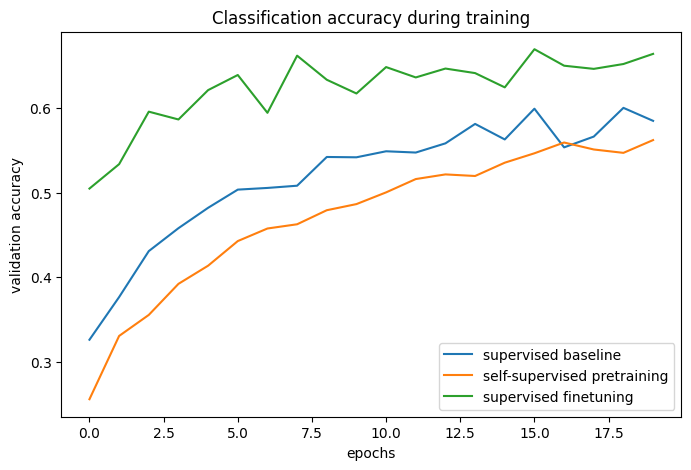
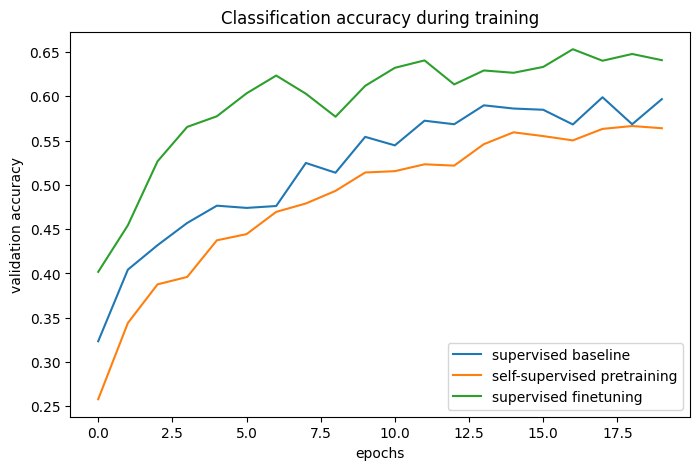
update

diff --git a/examples/vision/semisupervised_simclr.py b/examples/vision/semisupervised_simclr.py
@@ -66,6 +66,11 @@ check out
 ## Setup
 """
 
+import os
+
+os.environ["KERAS_BACKEND"] = "tensorflow"
+
+
 # Make sure we are able to handle large datasets
 import resource
 

diff --git a/examples/vision/md/semisupervised_simclr.md b/examples/vision/md/semisupervised_simclr.md
@@ -70,6 +70,11 @@ check out
 
 
 ```python
+import os
+
+os.environ["KERAS_BACKEND"] = "tensorflow"
+
+
 # Make sure we are able to handle large datasets
 import resource
 
@@ -340,46 +345,46 @@ print(
 <div class="k-default-codeblock">
 ```
 Epoch 1/20
- 200/200 ━━━━━━━━━━━━━━━━━━━━ 10s 25ms/step - acc: 0.1778 - loss: 2.1562 - val_acc: 0.3261 - val_loss: 1.7078
+ 200/200 ━━━━━━━━━━━━━━━━━━━━ 9s 25ms/step - acc: 0.2031 - loss: 2.1576 - val_acc: 0.3234 - val_loss: 1.7719
 Epoch 2/20
- 200/200 ━━━━━━━━━━━━━━━━━━━━ 3s 17ms/step - acc: 0.3583 - loss: 1.7477 - val_acc: 0.3766 - val_loss: 1.6743
+ 200/200 ━━━━━━━━━━━━━━━━━━━━ 4s 17ms/step - acc: 0.3476 - loss: 1.7792 - val_acc: 0.4042 - val_loss: 1.5626
 Epoch 3/20
- 200/200 ━━━━━━━━━━━━━━━━━━━━ 4s 21ms/step - acc: 0.4091 - loss: 1.6017 - val_acc: 0.4310 - val_loss: 1.4954
+ 200/200 ━━━━━━━━━━━━━━━━━━━━ 4s 17ms/step - acc: 0.4060 - loss: 1.6054 - val_acc: 0.4319 - val_loss: 1.4832
 Epoch 4/20
- 200/200 ━━━━━━━━━━━━━━━━━━━━ 5s 23ms/step - acc: 0.4364 - loss: 1.5322 - val_acc: 0.4581 - val_loss: 1.4656
+ 200/200 ━━━━━━━━━━━━━━━━━━━━ 4s 18ms/step - acc: 0.4347 - loss: 1.5052 - val_acc: 0.4570 - val_loss: 1.4428
 Epoch 5/20
- 200/200 ━━━━━━━━━━━━━━━━━━━━ 5s 23ms/step - acc: 0.4638 - loss: 1.4673 - val_acc: 0.4823 - val_loss: 1.3855
+ 200/200 ━━━━━━━━━━━━━━━━━━━━ 4s 18ms/step - acc: 0.4600 - loss: 1.4546 - val_acc: 0.4765 - val_loss: 1.3977
 Epoch 6/20
- 200/200 ━━━━━━━━━━━━━━━━━━━━ 4s 20ms/step - acc: 0.4935 - loss: 1.3822 - val_acc: 0.5038 - val_loss: 1.3473
+ 200/200 ━━━━━━━━━━━━━━━━━━━━ 4s 17ms/step - acc: 0.4754 - loss: 1.4015 - val_acc: 0.4740 - val_loss: 1.4082
 Epoch 7/20
- 200/200 ━━━━━━━━━━━━━━━━━━━━ 4s 17ms/step - acc: 0.4990 - loss: 1.3574 - val_acc: 0.5058 - val_loss: 1.3641
+ 200/200 ━━━━━━━━━━━━━━━━━━━━ 4s 17ms/step - acc: 0.4901 - loss: 1.3589 - val_acc: 0.4761 - val_loss: 1.4061
 Epoch 8/20
- 200/200 ━━━━━━━━━━━━━━━━━━━━ 4s 17ms/step - acc: 0.5306 - loss: 1.2743 - val_acc: 0.5084 - val_loss: 1.3376
+ 200/200 ━━━━━━━━━━━━━━━━━━━━ 4s 17ms/step - acc: 0.5110 - loss: 1.2793 - val_acc: 0.5247 - val_loss: 1.3026
 Epoch 9/20
- 200/200 ━━━━━━━━━━━━━━━━━━━━ 4s 17ms/step - acc: 0.5264 - loss: 1.2738 - val_acc: 0.5424 - val_loss: 1.2659
+ 200/200 ━━━━━━━━━━━━━━━━━━━━ 4s 17ms/step - acc: 0.5298 - loss: 1.2765 - val_acc: 0.5138 - val_loss: 1.3286
 Epoch 10/20
- 200/200 ━━━━━━━━━━━━━━━━━━━━ 4s 17ms/step - acc: 0.5751 - loss: 1.1989 - val_acc: 0.5420 - val_loss: 1.2480
+ 200/200 ━━━━━━━━━━━━━━━━━━━━ 4s 17ms/step - acc: 0.5514 - loss: 1.2078 - val_acc: 0.5543 - val_loss: 1.2227
 Epoch 11/20
- 200/200 ━━━━━━━━━━━━━━━━━━━━ 4s 17ms/step - acc: 0.5916 - loss: 1.1188 - val_acc: 0.5491 - val_loss: 1.2327
+ 200/200 ━━━━━━━━━━━━━━━━━━━━ 4s 17ms/step - acc: 0.5520 - loss: 1.1851 - val_acc: 0.5446 - val_loss: 1.2709
 Epoch 12/20
- 200/200 ━━━━━━━━━━━━━━━━━━━━ 4s 17ms/step - acc: 0.5871 - loss: 1.1249 - val_acc: 0.5476 - val_loss: 1.2465
+ 200/200 ━━━━━━━━━━━━━━━━━━━━ 4s 17ms/step - acc: 0.5851 - loss: 1.1368 - val_acc: 0.5725 - val_loss: 1.1944
 Epoch 13/20
- 200/200 ━━━━━━━━━━━━━━━━━━━━ 4s 17ms/step - acc: 0.6107 - loss: 1.0726 - val_acc: 0.5585 - val_loss: 1.2463
+ 200/200 ━━━━━━━━━━━━━━━━━━━━ 4s 18ms/step - acc: 0.5738 - loss: 1.1411 - val_acc: 0.5685 - val_loss: 1.1974
 Epoch 14/20
- 200/200 ━━━━━━━━━━━━━━━━━━━━ 5s 17ms/step - acc: 0.6059 - loss: 1.0698 - val_acc: 0.5815 - val_loss: 1.1859
+ 200/200 ━━━━━━━━━━━━━━━━━━━━ 4s 21ms/step - acc: 0.6078 - loss: 1.0308 - val_acc: 0.5899 - val_loss: 1.1769
 Epoch 15/20
- 200/200 ━━━━━━━━━━━━━━━━━━━━ 4s 21ms/step - acc: 0.6343 - loss: 1.0125 - val_acc: 0.5631 - val_loss: 1.2560
+ 200/200 ━━━━━━━━━━━━━━━━━━━━ 4s 18ms/step - acc: 0.6284 - loss: 1.0386 - val_acc: 0.5863 - val_loss: 1.1742
 Epoch 16/20
- 200/200 ━━━━━━━━━━━━━━━━━━━━ 4s 17ms/step - acc: 0.6372 - loss: 1.0090 - val_acc: 0.5995 - val_loss: 1.1302
+ 200/200 ━━━━━━━━━━━━━━━━━━━━ 4s 18ms/step - acc: 0.6450 - loss: 0.9773 - val_acc: 0.5849 - val_loss: 1.1993
 Epoch 17/20
- 200/200 ━━━━━━━━━━━━━━━━━━━━ 3s 17ms/step - acc: 0.6531 - loss: 0.9594 - val_acc: 0.5537 - val_loss: 1.2937
+ 200/200 ━━━━━━━━━━━━━━━━━━━━ 4s 17ms/step - acc: 0.6547 - loss: 0.9555 - val_acc: 0.5683 - val_loss: 1.2424
 Epoch 18/20
- 200/200 ━━━━━━━━━━━━━━━━━━━━ 4s 17ms/step - acc: 0.6706 - loss: 0.9130 - val_acc: 0.5665 - val_loss: 1.2670
+ 200/200 ━━━━━━━━━━━━━━━━━━━━ 4s 17ms/step - acc: 0.6593 - loss: 0.9084 - val_acc: 0.5990 - val_loss: 1.1458
 Epoch 19/20
- 200/200 ━━━━━━━━━━━━━━━━━━━━ 3s 17ms/step - acc: 0.6729 - loss: 0.8945 - val_acc: 0.6005 - val_loss: 1.1418
+ 200/200 ━━━━━━━━━━━━━━━━━━━━ 4s 17ms/step - acc: 0.6672 - loss: 0.9267 - val_acc: 0.5685 - val_loss: 1.2758
 Epoch 20/20
- 200/200 ━━━━━━━━━━━━━━━━━━━━ 4s 17ms/step - acc: 0.7075 - loss: 0.8153 - val_acc: 0.5851 - val_loss: 1.2535
-Maximal validation accuracy: 60.05%
+ 200/200 ━━━━━━━━━━━━━━━━━━━━ 4s 17ms/step - acc: 0.6824 - loss: 0.8863 - val_acc: 0.5969 - val_loss: 1.2035
+Maximal validation accuracy: 59.90%
 
 ```
 </div>
@@ -713,46 +718,46 @@ print(
 <div class="k-default-codeblock">
 ```
 Epoch 1/20
- 200/200 ━━━━━━━━━━━━━━━━━━━━ 38s 155ms/step - c_acc: 0.0802 - c_loss: 5.3667 - p_acc: 0.1345 - p_loss: 2.2911 - val_c_acc: 0.0000e+00 - val_c_loss: 0.0000e+00 - val_p_acc: 0.2558 - val_p_loss: 2.0893
+ 200/200 ━━━━━━━━━━━━━━━━━━━━ 34s 134ms/step - c_acc: 0.0880 - c_loss: 5.2606 - p_acc: 0.1326 - p_loss: 2.2726 - val_c_acc: 0.0000e+00 - val_c_loss: 0.0000e+00 - val_p_acc: 0.2579 - val_p_loss: 2.0671
 Epoch 2/20
- 200/200 ━━━━━━━━━━━━━━━━━━━━ 29s 140ms/step - c_acc: 0.2791 - c_loss: 3.6200 - p_acc: 0.2840 - p_loss: 2.0615 - val_c_acc: 0.0000e+00 - val_c_loss: 0.0000e+00 - val_p_acc: 0.3306 - val_p_loss: 1.9327
+ 200/200 ━━━━━━━━━━━━━━━━━━━━ 29s 139ms/step - c_acc: 0.2808 - c_loss: 3.6233 - p_acc: 0.2956 - p_loss: 2.0228 - val_c_acc: 0.0000e+00 - val_c_loss: 0.0000e+00 - val_p_acc: 0.3440 - val_p_loss: 1.9242
 Epoch 3/20
- 200/200 ━━━━━━━━━━━━━━━━━━━━ 28s 133ms/step - c_acc: 0.4089 - c_loss: 2.9509 - p_acc: 0.3513 - p_loss: 1.9077 - val_c_acc: 0.0000e+00 - val_c_loss: 0.0000e+00 - val_p_acc: 0.3555 - val_p_loss: 1.8655
+ 200/200 ━━━━━━━━━━━━━━━━━━━━ 28s 136ms/step - c_acc: 0.4097 - c_loss: 2.9369 - p_acc: 0.3671 - p_loss: 1.8674 - val_c_acc: 0.0000e+00 - val_c_loss: 0.0000e+00 - val_p_acc: 0.3876 - val_p_loss: 1.7757
 Epoch 4/20
- 200/200 ━━━━━━━━━━━━━━━━━━━━ 29s 139ms/step - c_acc: 0.4904 - c_loss: 2.5740 - p_acc: 0.3814 - p_loss: 1.8211 - val_c_acc: 0.0000e+00 - val_c_loss: 0.0000e+00 - val_p_acc: 0.3923 - val_p_loss: 1.7856
+ 200/200 ━━━━━━━━━━━━━━━━━━━━ 30s 142ms/step - c_acc: 0.4893 - c_loss: 2.5707 - p_acc: 0.3957 - p_loss: 1.7490 - val_c_acc: 0.0000e+00 - val_c_loss: 0.0000e+00 - val_p_acc: 0.3960 - val_p_loss: 1.7002
 Epoch 5/20
- 200/200 ━━━━━━━━━━━━━━━━━━━━ 29s 138ms/step - c_acc: 0.5518 - c_loss: 2.3005 - p_acc: 0.4176 - p_loss: 1.7342 - val_c_acc: 0.0000e+00 - val_c_loss: 0.0000e+00 - val_p_acc: 0.4137 - val_p_loss: 1.7032
+ 200/200 ━━━━━━━━━━━━━━━━━━━━ 28s 136ms/step - c_acc: 0.5458 - c_loss: 2.3342 - p_acc: 0.4274 - p_loss: 1.6608 - val_c_acc: 0.0000e+00 - val_c_loss: 0.0000e+00 - val_p_acc: 0.4374 - val_p_loss: 1.6145
 Epoch 6/20
- 200/200 ━━━━━━━━━━━━━━━━━━━━ 30s 143ms/step - c_acc: 0.5976 - c_loss: 2.1122 - p_acc: 0.4435 - p_loss: 1.6528 - val_c_acc: 0.0000e+00 - val_c_loss: 0.0000e+00 - val_p_acc: 0.4429 - val_p_loss: 1.5914
+ 200/200 ━━━━━━━━━━━━━━━━━━━━ 29s 140ms/step - c_acc: 0.5949 - c_loss: 2.1179 - p_acc: 0.4410 - p_loss: 1.5812 - val_c_acc: 0.0000e+00 - val_c_loss: 0.0000e+00 - val_p_acc: 0.4444 - val_p_loss: 1.5439
 Epoch 7/20
- 200/200 ━━━━━━━━━━━━━━━━━━━━ 29s 137ms/step - c_acc: 0.6240 - c_loss: 1.9754 - p_acc: 0.4536 - p_loss: 1.5819 - val_c_acc: 0.0000e+00 - val_c_loss: 0.0000e+00 - val_p_acc: 0.4577 - val_p_loss: 1.5743
+ 200/200 ━━━━━━━━━━━━━━━━━━━━ 28s 135ms/step - c_acc: 0.6273 - c_loss: 1.9861 - p_acc: 0.4633 - p_loss: 1.5076 - val_c_acc: 0.0000e+00 - val_c_loss: 0.0000e+00 - val_p_acc: 0.4695 - val_p_loss: 1.5056
 Epoch 8/20
- 200/200 ━━━━━━━━━━━━━━━━━━━━ 30s 142ms/step - c_acc: 0.6554 - c_loss: 1.8617 - p_acc: 0.4677 - p_loss: 1.5166 - val_c_acc: 0.0000e+00 - val_c_loss: 0.0000e+00 - val_p_acc: 0.4627 - val_p_loss: 1.5031
+ 200/200 ━━━━━━━━━━━━━━━━━━━━ 29s 139ms/step - c_acc: 0.6566 - c_loss: 1.8668 - p_acc: 0.4817 - p_loss: 1.4601 - val_c_acc: 0.0000e+00 - val_c_loss: 0.0000e+00 - val_p_acc: 0.4790 - val_p_loss: 1.4566
 Epoch 9/20
- 200/200 ━━━━━━━━━━━━━━━━━━━━ 28s 135ms/step - c_acc: 0.6728 - c_loss: 1.7889 - p_acc: 0.4757 - p_loss: 1.4715 - val_c_acc: 0.0000e+00 - val_c_loss: 0.0000e+00 - val_p_acc: 0.4794 - val_p_loss: 1.4673
+ 200/200 ━━━━━━━━━━━━━━━━━━━━ 28s 135ms/step - c_acc: 0.6726 - c_loss: 1.7938 - p_acc: 0.4885 - p_loss: 1.4136 - val_c_acc: 0.0000e+00 - val_c_loss: 0.0000e+00 - val_p_acc: 0.4933 - val_p_loss: 1.4163
 Epoch 10/20
- 200/200 ━━━━━━━━━━━━━━━━━━━━ 29s 139ms/step - c_acc: 0.6921 - c_loss: 1.6983 - p_acc: 0.5013 - p_loss: 1.4168 - val_c_acc: 0.0000e+00 - val_c_loss: 0.0000e+00 - val_p_acc: 0.4866 - val_p_loss: 1.4412
+ 200/200 ━━━━━━━━━━━━━━━━━━━━ 29s 139ms/step - c_acc: 0.6931 - c_loss: 1.7210 - p_acc: 0.4954 - p_loss: 1.3663 - val_c_acc: 0.0000e+00 - val_c_loss: 0.0000e+00 - val_p_acc: 0.5140 - val_p_loss: 1.3677
 Epoch 11/20
- 200/200 ━━━━━━━━━━━━━━━━━━━━ 28s 135ms/step - c_acc: 0.7030 - c_loss: 1.6700 - p_acc: 0.5041 - p_loss: 1.3928 - val_c_acc: 0.0000e+00 - val_c_loss: 0.0000e+00 - val_p_acc: 0.5005 - val_p_loss: 1.4026
+ 200/200 ━━━━━━━━━━━━━━━━━━━━ 29s 137ms/step - c_acc: 0.7055 - c_loss: 1.6619 - p_acc: 0.5210 - p_loss: 1.3376 - val_c_acc: 0.0000e+00 - val_c_loss: 0.0000e+00 - val_p_acc: 0.5155 - val_p_loss: 1.3573
 Epoch 12/20
- 200/200 ━━━━━━━━━━━━━━━━━━━━ 29s 138ms/step - c_acc: 0.7146 - c_loss: 1.6161 - p_acc: 0.5158 - p_loss: 1.3465 - val_c_acc: 0.0000e+00 - val_c_loss: 0.0000e+00 - val_p_acc: 0.5163 - val_p_loss: 1.4030
+ 200/200 ━━━━━━━━━━━━━━━━━━━━ 30s 145ms/step - c_acc: 0.7215 - c_loss: 1.6112 - p_acc: 0.5264 - p_loss: 1.2920 - val_c_acc: 0.0000e+00 - val_c_loss: 0.0000e+00 - val_p_acc: 0.5232 - val_p_loss: 1.3337
 Epoch 13/20
- 200/200 ━━━━━━━━━━━━━━━━━━━━ 28s 134ms/step - c_acc: 0.7264 - c_loss: 1.5713 - p_acc: 0.5305 - p_loss: 1.3124 - val_c_acc: 0.0000e+00 - val_c_loss: 0.0000e+00 - val_p_acc: 0.5217 - val_p_loss: 1.3409
+ 200/200 ━━━━━━━━━━━━━━━━━━━━ 31s 146ms/step - c_acc: 0.7279 - c_loss: 1.5749 - p_acc: 0.5388 - p_loss: 1.2570 - val_c_acc: 0.0000e+00 - val_c_loss: 0.0000e+00 - val_p_acc: 0.5217 - val_p_loss: 1.3155
 Epoch 14/20
- 200/200 ━━━━━━━━━━━━━━━━━━━━ 29s 137ms/step - c_acc: 0.7408 - c_loss: 1.5277 - p_acc: 0.5355 - p_loss: 1.2922 - val_c_acc: 0.0000e+00 - val_c_loss: 0.0000e+00 - val_p_acc: 0.5199 - val_p_loss: 1.3359
+ 200/200 ━━━━━━━━━━━━━━━━━━━━ 29s 140ms/step - c_acc: 0.7435 - c_loss: 1.5196 - p_acc: 0.5505 - p_loss: 1.2507 - val_c_acc: 0.0000e+00 - val_c_loss: 0.0000e+00 - val_p_acc: 0.5460 - val_p_loss: 1.2640
 Epoch 15/20
- 200/200 ━━━━━━━━━━━━━━━━━━━━ 28s 133ms/step - c_acc: 0.7441 - c_loss: 1.5061 - p_acc: 0.5518 - p_loss: 1.2834 - val_c_acc: 0.0000e+00 - val_c_loss: 0.0000e+00 - val_p_acc: 0.5356 - val_p_loss: 1.3070
+ 200/200 ━━━━━━━━━━━━━━━━━━━━ 40s 135ms/step - c_acc: 0.7477 - c_loss: 1.4979 - p_acc: 0.5653 - p_loss: 1.2188 - val_c_acc: 0.0000e+00 - val_c_loss: 0.0000e+00 - val_p_acc: 0.5594 - val_p_loss: 1.2351
 Epoch 16/20
- 200/200 ━━━━━━━━━━━━━━━━━━━━ 29s 141ms/step - c_acc: 0.7529 - c_loss: 1.4672 - p_acc: 0.5573 - p_loss: 1.2535 - val_c_acc: 0.0000e+00 - val_c_loss: 0.0000e+00 - val_p_acc: 0.5468 - val_p_loss: 1.2732
+ 200/200 ━━━━━━━━━━━━━━━━━━━━ 29s 139ms/step - c_acc: 0.7598 - c_loss: 1.4463 - p_acc: 0.5590 - p_loss: 1.1917 - val_c_acc: 0.0000e+00 - val_c_loss: 0.0000e+00 - val_p_acc: 0.5551 - val_p_loss: 1.2411
 Epoch 17/20
- 200/200 ━━━━━━━━━━━━━━━━━━━━ 29s 137ms/step - c_acc: 0.7585 - c_loss: 1.4425 - p_acc: 0.5573 - p_loss: 1.2250 - val_c_acc: 0.0000e+00 - val_c_loss: 0.0000e+00 - val_p_acc: 0.5595 - val_p_loss: 1.2567
+ 200/200 ━━━━━━━━━━━━━━━━━━━━ 28s 135ms/step - c_acc: 0.7633 - c_loss: 1.4271 - p_acc: 0.5775 - p_loss: 1.1731 - val_c_acc: 0.0000e+00 - val_c_loss: 0.0000e+00 - val_p_acc: 0.5502 - val_p_loss: 1.2428
 Epoch 18/20
- 200/200 ━━━━━━━━━━━━━━━━━━━━ 29s 141ms/step - c_acc: 0.7675 - c_loss: 1.4162 - p_acc: 0.5555 - p_loss: 1.2213 - val_c_acc: 0.0000e+00 - val_c_loss: 0.0000e+00 - val_p_acc: 0.5512 - val_p_loss: 1.2580
+ 200/200 ━━━━━━━━━━━━━━━━━━━━ 29s 140ms/step - c_acc: 0.7666 - c_loss: 1.4246 - p_acc: 0.5752 - p_loss: 1.1805 - val_c_acc: 0.0000e+00 - val_c_loss: 0.0000e+00 - val_p_acc: 0.5633 - val_p_loss: 1.2167
 Epoch 19/20
- 200/200 ━━━━━━━━━━━━━━━━━━━━ 32s 155ms/step - c_acc: 0.7733 - c_loss: 1.3948 - p_acc: 0.5696 - p_loss: 1.1949 - val_c_acc: 0.0000e+00 - val_c_loss: 0.0000e+00 - val_p_acc: 0.5472 - val_p_loss: 1.2501
+ 200/200 ━━━━━━━━━━━━━━━━━━━━ 28s 135ms/step - c_acc: 0.7708 - c_loss: 1.3928 - p_acc: 0.5814 - p_loss: 1.1677 - val_c_acc: 0.0000e+00 - val_c_loss: 0.0000e+00 - val_p_acc: 0.5665 - val_p_loss: 1.2191
 Epoch 20/20
- 200/200 ━━━━━━━━━━━━━━━━━━━━ 29s 140ms/step - c_acc: 0.7734 - c_loss: 1.3929 - p_acc: 0.5773 - p_loss: 1.1759 - val_c_acc: 0.0000e+00 - val_c_loss: 0.0000e+00 - val_p_acc: 0.5624 - val_p_loss: 1.2406
-Maximal validation accuracy: 56.24%
+ 200/200 ━━━━━━━━━━━━━━━━━━━━ 29s 140ms/step - c_acc: 0.7806 - c_loss: 1.3733 - p_acc: 0.5836 - p_loss: 1.1442 - val_c_acc: 0.0000e+00 - val_c_loss: 0.0000e+00 - val_p_acc: 0.5640 - val_p_loss: 1.2172
+Maximal validation accuracy: 56.65%
 
 ```
 </div>
@@ -792,46 +797,46 @@ print(
 <div class="k-default-codeblock">
 ```
 Epoch 1/20
- 200/200 ━━━━━━━━━━━━━━━━━━━━ 5s 18ms/step - acc: 0.2790 - loss: 1.9564 - val_acc: 0.5050 - val_loss: 1.3547
+ 200/200 ━━━━━━━━━━━━━━━━━━━━ 5s 18ms/step - acc: 0.2104 - loss: 2.0930 - val_acc: 0.4017 - val_loss: 1.5433
 Epoch 2/20
- 200/200 ━━━━━━━━━━━━━━━━━━━━ 3s 17ms/step - acc: 0.4842 - loss: 1.3999 - val_acc: 0.5339 - val_loss: 1.2820
+ 200/200 ━━━━━━━━━━━━━━━━━━━━ 4s 17ms/step - acc: 0.4037 - loss: 1.5791 - val_acc: 0.4544 - val_loss: 1.4250
 Epoch 3/20
- 200/200 ━━━━━━━━━━━━━━━━━━━━ 3s 17ms/step - acc: 0.5529 - loss: 1.2314 - val_acc: 0.5960 - val_loss: 1.1354
+ 200/200 ━━━━━━━━━━━━━━━━━━━━ 4s 17ms/step - acc: 0.4639 - loss: 1.4161 - val_acc: 0.5266 - val_loss: 1.2958
 Epoch 4/20
- 200/200 ━━━━━━━━━━━━━━━━━━━━ 3s 17ms/step - acc: 0.5883 - loss: 1.1250 - val_acc: 0.5867 - val_loss: 1.1316
+ 200/200 ━━━━━━━━━━━━━━━━━━━━ 4s 17ms/step - acc: 0.5438 - loss: 1.2686 - val_acc: 0.5655 - val_loss: 1.1711
 Epoch 5/20
- 200/200 ━━━━━━━━━━━━━━━━━━━━ 3s 17ms/step - acc: 0.6199 - loss: 1.0635 - val_acc: 0.6215 - val_loss: 1.0669
+ 200/200 ━━━━━━━━━━━━━━━━━━━━ 4s 17ms/step - acc: 0.5678 - loss: 1.1746 - val_acc: 0.5775 - val_loss: 1.1670
 Epoch 6/20
- 200/200 ━━━━━━━━━━━━━━━━━━━━ 3s 17ms/step - acc: 0.6280 - loss: 1.0143 - val_acc: 0.6394 - val_loss: 1.0138
+ 200/200 ━━━━━━━━━━━━━━━━━━━━ 4s 17ms/step - acc: 0.6096 - loss: 1.1071 - val_acc: 0.6034 - val_loss: 1.1400
 Epoch 7/20
- 200/200 ━━━━━━━━━━━━━━━━━━━━ 5s 17ms/step - acc: 0.6637 - loss: 0.9512 - val_acc: 0.5946 - val_loss: 1.1341
+ 200/200 ━━━━━━━━━━━━━━━━━━━━ 4s 17ms/step - acc: 0.6242 - loss: 1.0413 - val_acc: 0.6235 - val_loss: 1.0756
 Epoch 8/20
- 200/200 ━━━━━━━━━━━━━━━━━━━━ 3s 17ms/step - acc: 0.6639 - loss: 0.9366 - val_acc: 0.6622 - val_loss: 0.9710
+ 200/200 ━━━━━━━━━━━━━━━━━━━━ 4s 17ms/step - acc: 0.6284 - loss: 1.0264 - val_acc: 0.6030 - val_loss: 1.1048
 Epoch 9/20
- 200/200 ━━━━━━━━━━━━━━━━━━━━ 4s 17ms/step - acc: 0.7018 - loss: 0.8469 - val_acc: 0.6338 - val_loss: 1.0568
+ 200/200 ━━━━━━━━━━━━━━━━━━━━ 4s 17ms/step - acc: 0.6491 - loss: 0.9706 - val_acc: 0.5770 - val_loss: 1.2818
 Epoch 10/20
- 200/200 ━━━━━━━━━━━━━━━━━━━━ 3s 17ms/step - acc: 0.7054 - loss: 0.8137 - val_acc: 0.6175 - val_loss: 1.1042
+ 200/200 ━━━━━━━━━━━━━━━━━━━━ 4s 17ms/step - acc: 0.6754 - loss: 0.9104 - val_acc: 0.6119 - val_loss: 1.1087
 Epoch 11/20
- 200/200 ━━━━━━━━━━━━━━━━━━━━ 4s 17ms/step - acc: 0.7084 - loss: 0.8063 - val_acc: 0.6488 - val_loss: 1.0032
+ 200/200 ━━━━━━━━━━━━━━━━━━━━ 4s 20ms/step - acc: 0.6620 - loss: 0.8855 - val_acc: 0.6323 - val_loss: 1.0526
 Epoch 12/20
- 200/200 ━━━━━━━━━━━━━━━━━━━━ 4s 17ms/step - acc: 0.7254 - loss: 0.7712 - val_acc: 0.6365 - val_loss: 1.0920
+ 200/200 ━━━━━━━━━━━━━━━━━━━━ 4s 19ms/step - acc: 0.7060 - loss: 0.8179 - val_acc: 0.6406 - val_loss: 1.0565
 Epoch 13/20
- 200/200 ━━━━━━━━━━━━━━━━━━━━ 3s 17ms/step - acc: 0.7387 - loss: 0.7199 - val_acc: 0.6470 - val_loss: 1.0372
+ 200/200 ━━━━━━━━━━━━━━━━━━━━ 3s 17ms/step - acc: 0.7252 - loss: 0.7796 - val_acc: 0.6135 - val_loss: 1.1273
 Epoch 14/20
- 200/200 ━━━━━━━━━━━━━━━━━━━━ 4s 21ms/step - acc: 0.7498 - loss: 0.7110 - val_acc: 0.6416 - val_loss: 1.0901
+ 200/200 ━━━━━━━━━━━━━━━━━━━━ 4s 17ms/step - acc: 0.7176 - loss: 0.7935 - val_acc: 0.6292 - val_loss: 1.1028
 Epoch 15/20
- 200/200 ━━━━━━━━━━━━━━━━━━━━ 4s 17ms/step - acc: 0.7723 - loss: 0.6438 - val_acc: 0.6248 - val_loss: 1.1611
+ 200/200 ━━━━━━━━━━━━━━━━━━━━ 4s 17ms/step - acc: 0.7322 - loss: 0.7471 - val_acc: 0.6266 - val_loss: 1.1313
 Epoch 16/20
- 200/200 ━━━━━━━━━━━━━━━━━━━━ 3s 17ms/step - acc: 0.7661 - loss: 0.6650 - val_acc: 0.6699 - val_loss: 1.0066
+ 200/200 ━━━━━━━━━━━━━━━━━━━━ 4s 17ms/step - acc: 0.7400 - loss: 0.7218 - val_acc: 0.6332 - val_loss: 1.1064
 Epoch 17/20
- 200/200 ━━━━━━━━━━━━━━━━━━━━ 3s 17ms/step - acc: 0.7778 - loss: 0.6322 - val_acc: 0.6504 - val_loss: 1.0976
+ 200/200 ━━━━━━━━━━━━━━━━━━━━ 4s 17ms/step - acc: 0.7490 - loss: 0.6968 - val_acc: 0.6532 - val_loss: 1.0112
 Epoch 18/20
- 200/200 ━━━━━━━━━━━━━━━━━━━━ 3s 17ms/step - acc: 0.7844 - loss: 0.5973 - val_acc: 0.6466 - val_loss: 1.0941
+ 200/200 ━━━━━━━━━━━━━━━━━━━━ 4s 17ms/step - acc: 0.7491 - loss: 0.6879 - val_acc: 0.6403 - val_loss: 1.1083
 Epoch 19/20
- 200/200 ━━━━━━━━━━━━━━━━━━━━ 3s 17ms/step - acc: 0.7948 - loss: 0.5746 - val_acc: 0.6524 - val_loss: 1.1429
+ 200/200 ━━━━━━━━━━━━━━━━━━━━ 4s 17ms/step - acc: 0.7802 - loss: 0.6504 - val_acc: 0.6479 - val_loss: 1.0548
 Epoch 20/20
- 200/200 ━━━━━━━━━━━━━━━━━━━━ 3s 17ms/step - acc: 0.7984 - loss: 0.5519 - val_acc: 0.6644 - val_loss: 1.1057
-Maximal validation accuracy: 66.99%
+ 200/200 ━━━━━━━━━━━━━━━━━━━━ 3s 17ms/step - acc: 0.7800 - loss: 0.6234 - val_acc: 0.6409 - val_loss: 1.0998
+Maximal validation accuracy: 65.32%
 
 ```
 </div>
